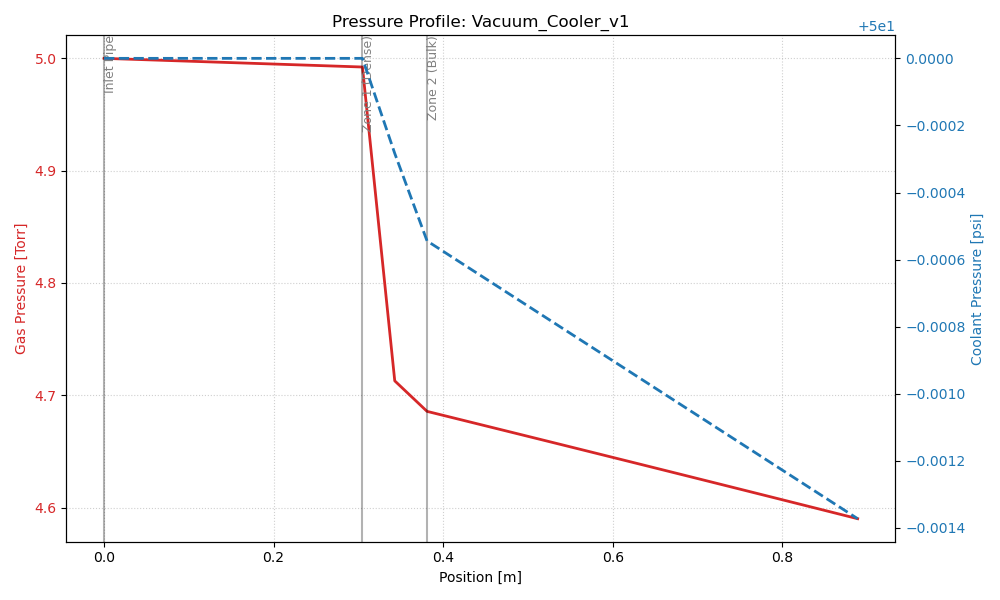
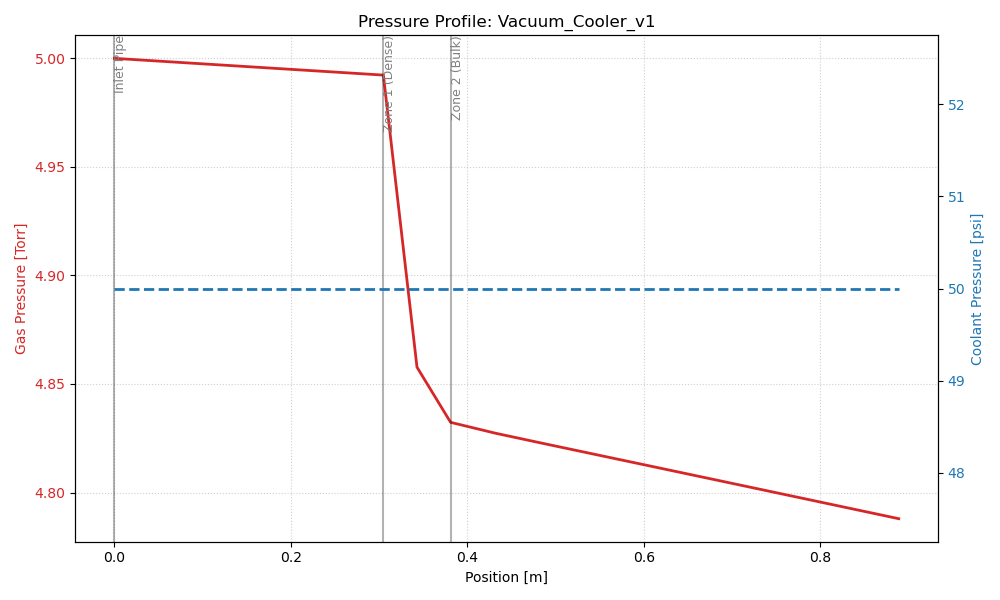
Implemented Updated Heat Transfer Correlations for MSFC Vac Chamber Design.

diff --git a/run_design.py b/run_design.py
@@ -1,73 +1,189 @@
-# run_design.py
+import matplotlib.pyplot as plt
 from utils import convert as cv
 from src.fluids import FluidState, StreamType, Fluid
-from src.models import TariqModel
 from src.builders import HXBuilder
-from src.reporting.results import CompositeReporter, ConsoleSummaryReporter, MatplotlibReporter
+from src.models import ModifiedGrimisonModel
+from src.models.pressure import GunterShawModel
 
-def main():
-    print("--- STARTING CALC ---")
-
-    # 1. PHYSICS & BOUNDARY CONDITIONS
-    physics_model = TariqModel()
-    hot_in        = FluidState(StreamType.GAS,
-                               T     = cv.convert(1900, 'degC', 'K'), 
-                               P     = cv.convert(5, 'Torr', 'Pa'), 
-                               m_dot = cv.convert(10.68, 'g/s', 'kg/s'), 
-                               fluid = Fluid.N2)
-    cold_in       = FluidState(StreamType.COOLANT, 
-                               T     = cv.convert(80, 'degF', 'K'), 
-                               P     = cv.convert(50, 'psi', 'Pa'), 
-                               m_dot = cv.convert(1.0, 'lb/s', 'kg/s'), 
-                               fluid = Fluid.WATER)
-
-    # 2. HARDWARE DEFINITION
-    hardware_config = [
-        # Inlet Pipe
-        {
-            'type': 'pipe',   
-            'name': 'Inlet Pipe', 
-            'length':   cv.convert(1, 'ft', 'm'), 
-            'diameter': cv.convert(12, 'in', 'm')
-        },
-        # Dense Section
-        {
-            'type': 'finned', 
-            'name': 'Zone 1 (Dense)', 
-            'width':         cv.convert(16, 'in', 'm'),
-            # 'height':      cv.convert(16, 'in', 'm'), # Optional, defaults to width if missing
-            'tube_od':       cv.convert(1.0, 'in', 'm'),
-            'tubes_deep':    2,
-            'Rp':            1.5,
-            'fin_pitch':     cv.convert(1.0/4.0, 'in', 'm'), # 4 Fins Per Inch
-            'fin_thickness': cv.convert(0.012, 'in', 'm')
-        },
-        # Bulk Section
-        {
-            'type': 'finned', 
-            'name': 'Zone 2 (Bulk)', 
-            'width':         cv.convert(16, 'in', 'm'),
-            'tube_od':       cv.convert(1.0, 'in', 'm'),
-            'tubes_deep':    10,
-            'Rp':            2.0,
-            'fin_pitch':     cv.convert(1.0/8.0, 'in', 'm'), # 8 Fins Per Inch
-            'fin_thickness': cv.convert(0.012, 'in', 'm')
+def get_design_geometry():
+    """
+    DEFINE YOUR ACTUAL DESIGN GEOMETRY HERE.
+    """
+    W = cv.convert(16, 'in', 'm') # Width
+    
+    config = [
+        # Zone 1: High Temp Inlet (Bare Tubes)
+        {'type': 'bare', 'name': 'Zone 1 (Bare)', 'width': W, 'tubes_deep': 10,
+         'tube_od': cv.convert(1.0, 'in', 'm'), 
+         'S_T': cv.convert(2.5, 'in', 'm'), 
+         'S_L': cv.convert(2.0, 'in', 'm')},
+         
+        # Zone 2: Main Cooling (Finned Tubes)
+        {'type': 'finned', 'name': 'Zone 2 (Finned)', 'width': W, 'tubes_deep': 20,
+         'tube_od': cv.convert(0.625, 'in', 'm'), 
+         'S_T':     cv.convert(1.5, 'in', 'm'), 
+         'S_L':     cv.convert(1.25, 'in', 'm'),
+         'fin_pitch':     cv.convert(1.0/8.0, 'in', 'm'), # 8 Fins Per Inch
+         'fin_thickness': cv.convert(0.012, 'in', 'm')
         }
     ]
+    return config
 
-    # 3. BUILD & SOLVE
-    builder = HXBuilder("Vacuum_Cooler_v1", physics_model)
-    builder.add_zones_from_config(hardware_config)
+def print_dimensions(hx):
+    """Calculates and prints the physical footprint."""
+    print("\n" + "="*40)
+    print("       HEAT EXCHANGER DIMENSIONS       ")
+    print("="*40)
     
-    hx = builder.build(hot_in, cold_in)
-    hx.solve()
+    total_length = 0.0
+    width = 0.0
+    height = 0.0
+    
+    for i, zone in enumerate(hx.zones):
+        z_len = 0.0
+        if hasattr(zone, 'length'): 
+            z_len = zone.length
+        elif hasattr(zone, 'S_L') and hasattr(zone, 'n_cols'):
+            z_len = zone.S_L * zone.n_cols
+        
+        total_length += z_len
+        
+        if i == 0:
+            width = getattr(zone, 'width', 0.0)
+            height = getattr(zone, 'height', 0.0)
+            
+        print(f"Zone {i+1} ({zone.name}):")
+        print(f"  > Depth: {z_len:.4f} m  ({cv.convert(z_len, 'm', 'in'):.2f} in)")
+        if hasattr(zone, 'n_cols'):
+            print(f"  > Rows:  {zone.n_cols}")
 
-    # 4. REPORTING
-    reporters = CompositeReporter([
-        ConsoleSummaryReporter(target_temp_k=cv.convert(100, 'degC', 'K')),
-        MatplotlibReporter()
-    ])
-    reporters.report(hx)
+    print("-" * 40)
+    print(f"TOTAL DEPTH:  {total_length:.4f} m  ({cv.convert(total_length, 'm', 'in'):.2f} in)")
+    print(f"WIDTH:        {width:.4f} m  ({cv.convert(width, 'm', 'in'):.2f} in)")
+    print(f"HEIGHT:       {height:.4f} m  ({cv.convert(height, 'm', 'in'):.2f} in)")
+    print("="*40 + "\n")
+
+def run_design_simulation(hot_in, cold_in, config):
+    print("--- Running Design Simulation ---")
+    print(f"  > Gas: {hot_in.fluid_string} @ {cv.convert(hot_in.T, 'K', 'degC'):.1f} C, {cv.convert(hot_in.P, 'Pa', 'Torr'):.1f} Torr")
+    print(f"  > Coolant: {cold_in.fluid_string} @ {cv.convert(cold_in.T, 'K', 'degC'):.1f} C")
+
+    # 1. Physics
+    physics = ModifiedGrimisonModel(method="hammock")
+    pressure_physics = GunterShawModel(use_correction=True)
+    
+    # 2. Build
+    builder = HXBuilder("Design_v1", physics, pressure_model=pressure_physics)
+    builder.add_zones_from_config(config)
+    hx = builder.build(hot_in, cold_in)
+    
+    # 3. Solve
+    hx.solve()
+    
+    # Report Dimensions
+    print_dimensions(hx)
+    
+    # 4. Extract Data (degC and Torr)
+    rows = [0]
+    temps_c = [cv.convert(hot_in.T, 'K', 'degC')]
+    pressures_torr = [cv.convert(hot_in.P, 'Pa', 'Torr')]
+    reynolds = [0]
+    wall_temps_c = [cv.convert(cold_in.T, 'K', 'degC')]
+    cool_temps_c = [cv.convert(cold_in.T, 'K', 'degC')]
+    
+    current_row = 0
+    profile_idx = 1
+    
+    for zone in hx.zones:
+        z_re = getattr(zone, 'history', {}).get('Re_g', [])
+        z_Tw = getattr(zone, 'history', {}).get('T_wall', [])
+        z_Tc = getattr(zone, 'history', {}).get('T_cool', [])
+        
+        for i in range(zone.n_cols):
+            if profile_idx < len(hx.hot_stream.profile):
+                state = hx.hot_stream.profile[profile_idx]
+                current_row += 1
+                
+                rows.append(current_row)
+                temps_c.append(cv.convert(state.T, 'K', 'degC'))
+                pressures_torr.append(cv.convert(state.P, 'Pa', 'Torr'))
+                
+                # Reynolds
+                reynolds.append(z_re[i] if i < len(z_re) else 0.0)
+                
+                # Wall Temp
+                val_tw = z_Tw[i] if i < len(z_Tw) else cv.convert(wall_temps_c[-1], 'degC', 'K')
+                wall_temps_c.append(cv.convert(val_tw, 'K', 'degC'))
+                
+                # Coolant Temp
+                val_tc = z_Tc[i] if i < len(z_Tc) else cv.convert(cool_temps_c[-1], 'degC', 'K')
+                cool_temps_c.append(cv.convert(val_tc, 'K', 'degC'))
+                
+                profile_idx += 1
+            else:
+                break
+                
+    return rows, temps_c, pressures_torr, reynolds, wall_temps_c, cool_temps_c
+
+def main():
+    # --- 1. DESIGN INPUTS ---
+    hot_in = FluidState(StreamType.GAS, 
+                        T=cv.convert(1800, 'degC', 'K'),  
+                        P=cv.convert(5, 'Torr', 'Pa'),   
+                        m_dot=cv.convert(10.68, 'g/s', 'kg/s'),                        
+                        fluid=Fluid.N2)                 
+                        
+    cold_in = FluidState(StreamType.COOLANT, 
+                         T=cv.convert(80, 'degF', 'K'),   
+                         P=cv.convert(50, 'psi', 'Pa'),  
+                         m_dot=1.0,                      
+                         fluid=Fluid.WATER)
+
+    geometry = get_design_geometry()
+
+    # --- 2. RUN ---
+    rows, temps, pressures, re, wall, cool = run_design_simulation(hot_in, cold_in, geometry)
+
+    # --- 3. DASHBOARD PLOT ---
+    print("--- Generating Design Dashboard ---")
+    fig, axes = plt.subplots(5, 1, figsize=(10, 18), sharex=True)
+    ax1, ax2, ax3, ax4, ax5 = axes
+    
+    # Gas Temp (degC)
+    ax1.plot(rows, temps, color='tab:red', linewidth=2)
+    ax1.set_ylabel("Gas Temp (°C)")
+    ax1.set_title("Design Performance: Gas Temperature Profile")
+    ax1.grid(True, alpha=0.3)
+    
+    # Gas Pressure (Torr)
+    ax2.plot(rows, pressures, color='tab:orange', linewidth=2)
+    ax2.set_ylabel("Gas Pressure (Torr)")
+    ax2.set_title("Gas Pressure Profile")
+    ax2.grid(True, alpha=0.3)
+    
+    # Reynolds
+    ax3.plot(rows, re, color='tab:green', linewidth=2)
+    ax3.set_ylabel("Reynolds Number (-)")
+    ax3.set_title("Gas Reynolds Number")
+    ax3.grid(True, alpha=0.3)
+    
+    # Wall Temp (degC)
+    ax4.plot(rows, wall, color='tab:purple', linewidth=2)
+    ax4.set_ylabel("Wall Temp (°C)")
+    ax4.set_title("Tube Wall Temperature")
+    ax4.axhline(100, color='k', linestyle='--', alpha=0.5, label="Boiling Risk (100°C)")
+    ax4.grid(True, alpha=0.3)
+    ax4.legend()
+    
+    # Coolant Temp (degC)
+    ax5.plot(rows, cool, color='tab:blue', linewidth=2)
+    ax5.set_ylabel("Coolant Temp (°C)")
+    ax5.set_title("Coolant Temperature Rise")
+    ax5.set_xlabel("Cumulative Row Number")
+    ax5.grid(True, alpha=0.3)
+
+    plt.tight_layout()
+    plt.show()
 
 if __name__ == "__main__":
     main()
